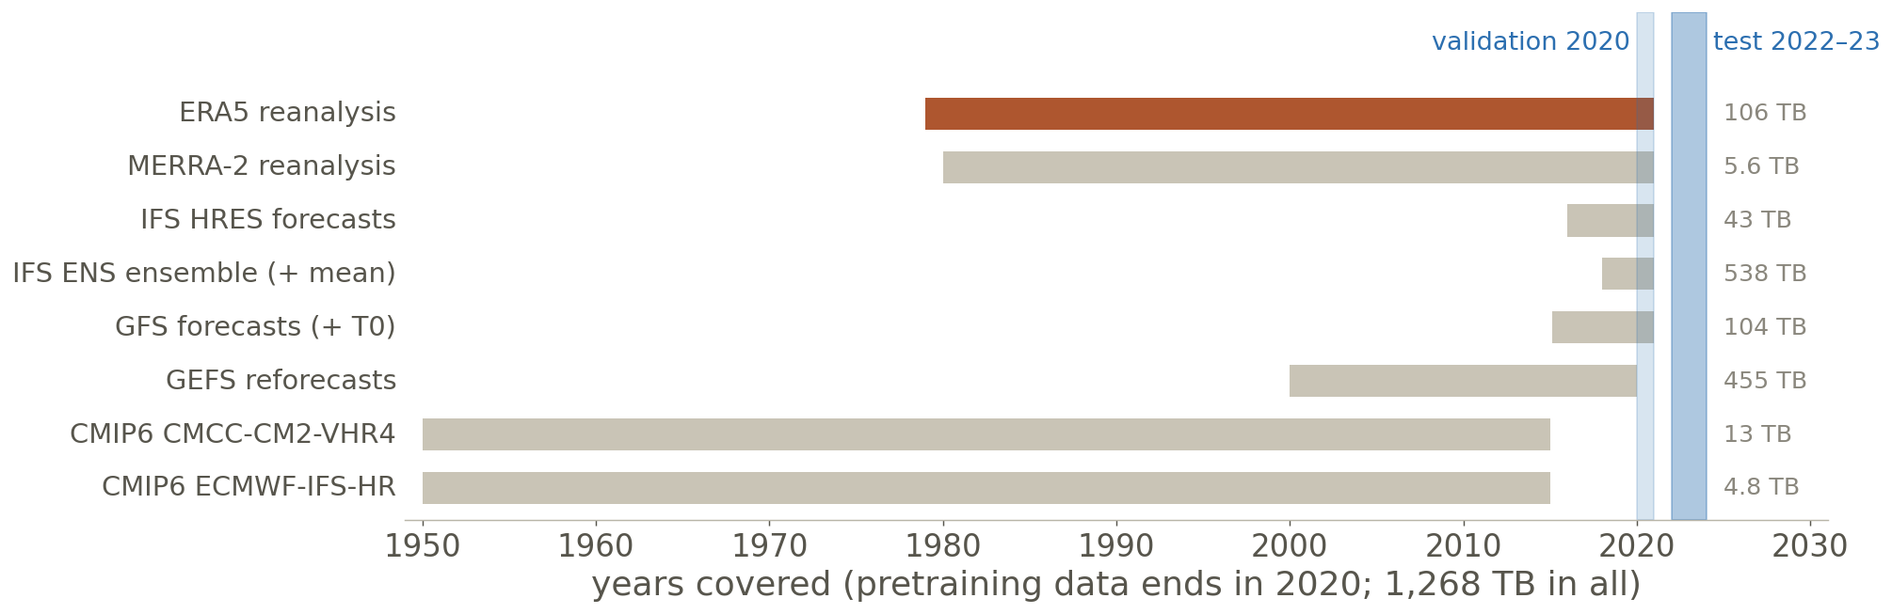
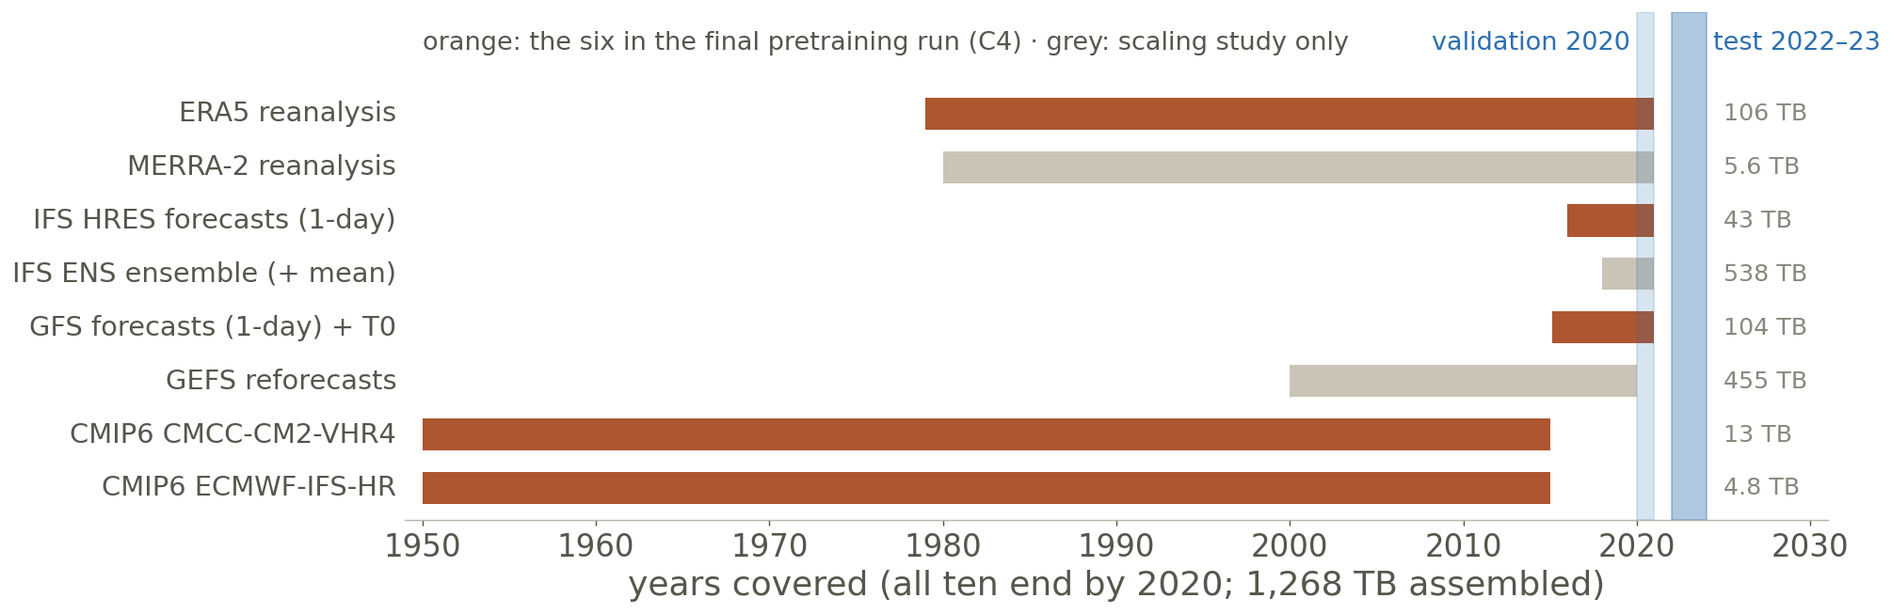
Decks: weather-model claims checked against the Week 11 fact sheet
- Week 1: GenCast 97.2% of 1,320 targets; Aurora "orders of magnitude lower
  computational cost" (the 5,000x is in the first preprint only); ML models
  run alongside, not instead of, physics models; FourCastNet on ERA5's 0.25 deg
  grid in under 2 s; Pangu-Weather beat ECMWF's control forecast, GraphCast
  HRES (90%); timeline dates: ECMWF ensemble July 2025, WeatherNext 2 Nov 2025
  (cyclone tracks a day better than GenCast), NOAA 17 Dec 2025, DWD AICON
  Mar 2026
- Week 3: models are not all scored against ERA5 (the IFS against its own
  analysis)
- Week 5 A8: FuXi keeps a 6-h step (60 steps) with three fine-tuned copies,
  Short on 2-12-step rollouts, the others on their predecessor's output, so
  it acts on the per-step error; FourCastNet's second step alone is self-fed
- Week 6: Aurora's Perceiver gives 3 latent levels plus a surface level;
  48 layers in three stages; 6-h step (12-h model for air quality) with LoRA
  rollout fine-tuning; variable lead times only in Aurora 1.5; cyclone
  tracks from the 0.25 deg model
- Week 9: Aurora frames are 180 x 360 x 4 tokens (3 latent + surface): 319
  distinct and 957 seen per parameter (figure regenerated); ten datasets
  assembled, six in the final run (C4), the all-ten set "often does worse
  than the ERA5 job" (figure marks the six)

diff --git a/slides/week09.html b/slides/week09.html
@@ -149,7 +149,7 @@
   <h2>Earth models are data-poor and repeat their corpus hundreds of times</h2>
   <p class="small" style="margin:-1.6vh 0 1vh;color:var(--ink-2);line-height:1.45">Chinchilla’s 20 counts fresh text tokens. Earth archives hold few unique tokens, so their models loop over them.</p>
   <div class="figure" style="flex:0 0 auto;margin:0 0 .6vh">
-    <img src="img/fig-w9-tokens.png" data-zoom alt="Tokens per parameter on a log axis for four models; hollow dot = unique tokens in the corpus, filled dot = tokens seen in training with repeats. Chinchilla 70 B: 20 and 20, about one epoch of text. Aurora 1.3 B: about 239 unique and 718 seen, about three epochs, derived. Prithvi-EO-2.0 300 M: 11 unique and 4,390 seen over 400 epochs. Our Week 7 mini-MAE 0.9 M: 0.28 unique and 373 seen over 1,367 epochs. A dashed line marks 20 tokens per parameter." title="Click to enlarge" style="display:block;margin:0 auto;height:34vh;width:auto;max-width:100%">
+    <img src="img/fig-w9-tokens.png" data-zoom alt="Tokens per parameter on a log axis for four models; hollow dot = unique tokens in the corpus, filled dot = tokens seen in training with repeats. Chinchilla 70 B: 20 and 20, about one epoch of text. Aurora 1.3 B: about 319 unique and 957 seen, about three epochs, derived. Prithvi-EO-2.0 300 M: 11 unique and 4,390 seen over 400 epochs. Our Week 7 mini-MAE 0.9 M: 0.28 unique and 373 seen over 1,367 epochs. A dashed line marks 20 tokens per parameter." title="Click to enlarge" style="display:block;margin:0 auto;height:34vh;width:auto;max-width:100%">
   </div>
   <div class="cols" style="grid-template-columns:1fr 1fr 1fr;gap:1vw;flex:0 0 auto">
     <div class="card small" style="min-width:0;padding:.9vh 1vw"><p style="margin:0;font-size:clamp(13.5px,2.05vh,18px);line-height:1.35"><b>1 · Fix N, vary tokens</b> — at each FLOP budget keep the run with the lowest loss</p></div>
@@ -158,10 +158,10 @@
   </div>
   <p class="small" style="margin:.6vh 0 0"><b class="accent">Where ≈ 20 comes from:</b> 400+ language models; all three → N, D ∝ √C, so D / N ≈ 20.</p>
   <div class="gloss">
-    <span><b>Aurora, worked</b> — 150 k steps × 32 GPUs × 1 = 4.8 M frames seen ≈ 3 epochs → 1.6 M unique · 1 frame = 180 × 360 patches (4 × 4 at 0.25°) × 3 levels ≈ 194 k tokens · 1.6 M × 194 k ÷ 1.3 B ≈ <b>239</b> · 4.8 M × 194 k ÷ 1.3 B ≈ <b>718</b></span>
+    <span><b>Aurora, worked</b> — 150 k steps × 32 GPUs × 1 = 4.8 M frames seen ≈ 3 epochs → 1.6 M unique · 1 frame = 180 × 360 patches (4 × 4 at 0.25°) × 4 levels (3 latent + surface) ≈ 259 k tokens · 1.6 M × 259 k ÷ 1.3 B ≈ <b>319</b> · 4.8 M × 259 k ÷ 1.3 B ≈ <b>957</b></span>
   </div>
   <div class="foot"><span>Muennighoff et al. 2023 · TESSERA v2 §3.3 · Prithvi-EO-2.0 §III · Aurora Supp. §C–D (counts derived, ≈) · figs/fig_tokens.py</span></div>
-  <aside class="notes">2 min. This is the reading's first question — "what is a token of ERA5?". The answer: a patch, like an image. Read the dots. Chinchilla: 20 fresh text tokens per parameter, seen once. Prithvi-EO-2.0-300M: its 4.2 million four-date chips hold about 11 unique patch tokens per parameter — fewer than Chinchilla's rule — so it trains 400 epochs and sees each token 400 times. Aurora has more unique tokens per parameter (a global field every 6 hours adds up), but neighbouring hours are nearly identical, so "unique" overstates it. Our own mini-MAE had 0.28 tokens per parameter, just over a quarter, and saw each one about 1,300 times (20,505 steps × 256 chips × 64 patches ÷ 899,968 parameters = 373 token visits per parameter; each of the 1,367 epochs drops its last partial batch); it still learned useful features, because each pass hides a different 75% (masking acts like fresh data, partly). Then the three cards — where the 20 itself comes from: Hoffmann et al. trained more than 400 language models from 70 million to 16 billion parameters and asked, three ways, which N and D give the lowest loss for a fixed compute budget. One: for each model size, vary the number of training tokens and, at every FLOP budget, keep whichever run reached the lowest loss. Two: fix nine budgets (6 × 10^18 to 3 × 10^21 FLOPs), train several sizes at each, fit a parabola and read off the bottom — the U-curves of the last slide. Three: fit one loss formula to all runs and minimise it. All three say parameters and tokens should grow at the same rate, about the square root of the compute, so their ratio stays near 20 — Table 3: 1 billion parameters, 20 billion tokens; the paper never writes "20" itself. Then the Aurora line under the figure, as the worked example of both dots: 150,000 steps on 32 GPUs, one frame each, is 4.8 million frames seen, which the paper calls about 3 epochs, so about 1.6 million distinct frames; one frame at 0.25° cut into 4 × 4 patches is 180 × 360 positions on each of 3 latent levels, about 194,000 tokens; distinct tokens ÷ 1.3 billion parameters ≈ 239, tokens seen ≈ 718 — the ratio is the 3 epochs. Token sizes for the others: Prithvi 16 × 16 pixels × 6 bands on one date (784 per four-date chip); ours 8 × 8 pixels × 13 bands. Two lessons for us. One, for text, repeating up to 4 epochs costs almost nothing and returns vanish after about 16 (Muennighoff). Two, the one EO study that fitted Chinchilla-style exponents found data should grow faster than the model — and that pretraining loss barely predicts downstream skill (|r| below 0.2), so judge pilots by a probe on your validation split, not by the loss curve. Reading question for ERA5: 40 years every 6 hours at Aurora's 4 × 4 patches is about 58,000 frames × 65,000 patches ≈ 4 billion tokens per level.</aside>
+  <aside class="notes">2 min. This is the reading's first question — "what is a token of ERA5?". The answer: a patch, like an image. Read the dots. Chinchilla: 20 fresh text tokens per parameter, seen once. Prithvi-EO-2.0-300M: its 4.2 million four-date chips hold about 11 unique patch tokens per parameter — fewer than Chinchilla's rule — so it trains 400 epochs and sees each token 400 times. Aurora has more unique tokens per parameter (a global field every 6 hours adds up), but neighbouring hours are nearly identical, so "unique" overstates it. Our own mini-MAE had 0.28 tokens per parameter, just over a quarter, and saw each one about 1,300 times (20,505 steps × 256 chips × 64 patches ÷ 899,968 parameters = 373 token visits per parameter; each of the 1,367 epochs drops its last partial batch); it still learned useful features, because each pass hides a different 75% (masking acts like fresh data, partly). Then the three cards — where the 20 itself comes from: Hoffmann et al. trained more than 400 language models from 70 million to 16 billion parameters and asked, three ways, which N and D give the lowest loss for a fixed compute budget. One: for each model size, vary the number of training tokens and, at every FLOP budget, keep whichever run reached the lowest loss. Two: fix nine budgets (6 × 10^18 to 3 × 10^21 FLOPs), train several sizes at each, fit a parabola and read off the bottom — the U-curves of the last slide. Three: fit one loss formula to all runs and minimise it. All three say parameters and tokens should grow at the same rate, about the square root of the compute, so their ratio stays near 20 — Table 3: 1 billion parameters, 20 billion tokens; the paper never writes "20" itself. Then the Aurora line under the figure, as the worked example of both dots: 150,000 steps on 32 GPUs, one frame each, is 4.8 million frames seen, which the paper calls about 3 epochs, so about 1.6 million distinct frames; one frame at 0.25° cut into 4 × 4 patches is 180 × 360 positions on each of 4 levels — three latent pressure levels plus the surface level — about 259,000 tokens; distinct tokens ÷ 1.3 billion parameters ≈ 319, tokens seen ≈ 957 — the ratio is the 3 epochs. Token sizes for the others: Prithvi 16 × 16 pixels × 6 bands on one date (784 per four-date chip); ours 8 × 8 pixels × 13 bands. Two lessons for us. One, for text, repeating up to 4 epochs costs almost nothing and returns vanish after about 16 (Muennighoff). Two, the one EO study that fitted Chinchilla-style exponents found data should grow faster than the model — and that pretraining loss barely predicts downstream skill (|r| below 0.2), so judge pilots by a probe on your validation split, not by the loss curve. Reading question for ERA5: 40 years every 6 hours at Aurora's 4 × 4 patches is about 58,000 frames × 65,000 patches ≈ 4 billion tokens per level.</aside>
 </section>
 
 <!-- 7 -->
@@ -209,7 +209,7 @@
   <div class="cols" style="grid-template-columns:1fr 1fr 1fr;gap:1.6vw;flex:0 0 auto;margin-top:.5vh">
     <div class="card small" style="min-width:0"><p style="margin:0"><b class="accent">What you will see</b><br>How Prithvi-EO-2.0 (land) and Aurora (atmosphere) built, filtered and split their pretraining data; the overlap check; when pretraining pays at all. <b>By the end:</b> open BASE_MODEL_AUDIT.md and fill its first lines.</p></div>
     <div class="card small" style="min-width:0"><p style="margin:0"><b class="accent">Why it matters here</b><br>A base model that saw your test region or years during pretraining makes your result look better than it is. You cannot rule that out without reading the corpus section.</p></div>
-    <div class="card small" style="min-width:0"><p style="margin:0"><b class="accent">Where it is used</b><br>Every released model says what it was trained on — in its paper’s data section and its Hugging Face page (the <i>model card</i>). Prithvi-EO-2.0: HLS, 2014–2023, cloudy chips removed. Aurora: ERA5 and nine other datasets, up to 2020. <b>For you:</b> Talk 2 on 16 Nov, card 2 — your base model’s data, and whether it overlaps your test.</p></div>
+    <div class="card small" style="min-width:0"><p style="margin:0"><b class="accent">Where it is used</b><br>Every released model says what it was trained on — in its paper’s data section and its Hugging Face page (the <i>model card</i>). Prithvi-EO-2.0: HLS, 2014–2023, cloudy chips removed. Aurora: ERA5 and five other datasets in its final run (ten assembled), up to 2020. <b>For you:</b> Talk 2 on 16 Nov, card 2 — your base model’s data, and whether it overlaps your test.</p></div>
   </div>
   <aside class="notes">9 minutes. "Archaeology" because the corpus is buried: a paragraph in §2 or an appendix, a config on Hugging Face, sometimes a sampling script. Two examples, one check, one question (does pretraining pay?), then the audit file.</aside>
 </section>
@@ -253,19 +253,19 @@
 
 <section class="slide xl">
   <p class="kicker">Part 2 · Example 2 · Aurora, Supplementary §C</p>
-  <h2>Aurora: ten datasets, all ending in 2020 — so test on 2022 and later</h2>
+  <h2>Aurora: ten datasets assembled, six in the final run, all ending in 2020 — so test on 2022 and later</h2>
   <p class="small" style="margin:-1.6vh 0 1.4vh;color:var(--ink-2);line-height:1.45">For a weather model the clean split is by time. Read where the corpus ends before you choose your test years.</p>
   <div class="figure" style="flex:0 0 auto;margin:0 0 .6vh">
-    <img src="img/fig-w9-aurora.png" data-zoom alt="Horizontal bars of the years covered by Aurora's pretraining datasets: ERA5 reanalysis 1979 to 2020, 106 TB, highlighted; MERRA-2 reanalysis 1980 to 2020; IFS HRES forecasts 2016 to 2020; IFS ENS ensemble 2018 to 2020, 538 TB; GFS forecasts 2015 to 2020; GEFS reforecasts 2000 to 2019, 455 TB; two CMIP6 climate simulations 1950 to 2014. A light band marks the validation year 2020, a darker band the test years 2022 and 2023. 1,268 TB in all." title="Click to enlarge" style="display:block;margin:0 auto;height:35vh;width:auto;max-width:100%">
+    <img src="img/fig-w9-aurora.png" data-zoom alt="Horizontal bars of the years covered by Aurora's pretraining datasets: ERA5 reanalysis 1979 to 2020, 106 TB, highlighted; MERRA-2 reanalysis 1980 to 2020; IFS HRES forecasts 2016 to 2020; IFS ENS ensemble 2018 to 2020, 538 TB; GFS forecasts 2015 to 2020; GEFS reforecasts 2000 to 2019, 455 TB; two CMIP6 climate simulations 1950 to 2014. The six used in the final pretraining run are orange: ERA5, one-day HRES forecasts, one-day GFS forecasts with GFS analyses, and the two climate simulations; the others were used only in the scaling study. A light band marks the validation year 2020, a darker band the test years 2022 and 2023. 1,268 TB assembled." title="Click to enlarge" style="display:block;margin:0 auto;height:35vh;width:auto;max-width:100%">
   </div>
   <ul class="small">
-    <li>Normalised with <b>ERA5 means and stds for every dataset</b>; ERA5 loss weighted × 2. <span class="accent">Note: the 2020 validation year sits inside the pretraining years.</span></li>
+    <li>The final run used six of the ten (orange); all ten together “often does worse than the ERA5 job”. Normalised with <b>ERA5 means and stds</b>; ERA5 loss weighted × 2. <span class="accent">Note: the 2020 validation year sits inside the pretraining years.</span></li>
   </ul>
   <div class="gloss">
     <span><b>reforecast</b> — an old forecast re-run with today’s model · <b>CMIP6</b> — the climate-model comparison project; here, simulated weather, not observations</span>
   </div>
   <div class="foot"><span>Bodnar et al., Nature 2025, Supplementary Table C3 and §C.4 (arXiv 2405.13063v3 §11) · 1.3 B parameters, 150 k steps on 32 A100s ≈ 2.5 weeks · weights MIT · wf_week9-facts.md §8</span></div>
-  <aside class="notes">2 min. The section is in the supplement, Section C — not Appendix B, as our schedule said. Ten datasets, 1.3 petabytes: reanalyses, forecasts, ensembles, even climate simulations. Three things to read off. First, everything ends in 2020; the test years are 2022 and 2023 — a clean split by time, and the one you should copy if your project is about weather or climate: put your test years after the corpus ends. Second, normalisation: Aurora uses ERA5's means and standard deviations for every dataset; when you fine-tune, keep those statistics rather than recomputing your own. Third, a small honesty check: the validation year 2020 is inside the pretraining datasets' range — the kind of detail the audit should record, not hide. They also found that adding every dataset was not always better than ERA5 alone: more data is not automatically better data.</aside>
+  <aside class="notes">2 min. The section is in the supplement, Section C — not Appendix B, as our schedule said. Ten datasets, 1.3 petabytes — reanalyses, forecasts, ensembles, even climate simulations — were assembled for the data-scaling study; the released model's final pretraining run used six of them (configuration C4: ERA5, one-day HRES and GFS forecasts, GFS analyses and the two climate simulations). Three things to read off. First, everything ends in 2020; the test years are 2022 and 2023 — a clean split by time, and the one you should copy if your project is about weather or climate: put your test years after the corpus ends. Second, normalisation: Aurora uses ERA5's means and standard deviations for every dataset; when you fine-tune, keep those statistics rather than recomputing your own. Third, a small honesty check: the validation year 2020 is inside the pretraining datasets' range — the kind of detail the audit should record, not hide. They also found that the all-ten configuration "often does worse than the ERA5 job": more data is not automatically better data.</aside>
 </section>
 
 <!-- 11 -->

diff --git a/slides/week06.html b/slides/week06.html
@@ -607,10 +607,10 @@
     <li>Every machine-learning weather model is an answer to this slide. <span class="accent">The honest version of “global attention” at 0.25° does not exist; what exists is windows, coarser grids and latents.</span></li>
   </ul>
   <div class="gloss">
-    <span><b>0.25°</b> — the grid of ERA5, the European weather reanalysis: ≈ 28 km at the equator. <b>Perceiver</b> — a small set of learned latent tokens that attend to (query) the big input (Aurora: 13 pressure levels → 3 latent levels). <b>mesh</b> — GraphCast’s coarser icosahedral graph (not attention).</span>
+    <span><b>0.25°</b> — the grid of ERA5, the European weather reanalysis: ≈ 28 km at the equator. <b>Perceiver</b> — a small set of learned latent tokens that attend to (query) the big input (Aurora: 13 pressure levels → 3 latent levels, plus a surface level). <b>mesh</b> — GraphCast’s coarser icosahedral graph (not attention).</span>
   </div>
   <div class="foot"><span>Bi et al. 2023 (Pangu-Weather), Nature 619 · Nguyen et al. 2023 (ClimaX), ICML · Bodnar et al. 2025 (Aurora), Nature 641 · numbers: Appendix A6</span></div>
-  <aside class="notes">2 min. Walk the left column slowly — it is the computation they must be able to redo for any grid: points, divide by the patch area, square, times two bytes. Land the 8.5 GB per head per layer against the T4's 16. Then the three doors, one sentence each: Pangu, FuXi and Aurora attend inside 2 × 6 × 12 windows — Part 4; ClimaX works at 5.625 degrees where the whole level is 512 tokens — the grid of Lab 05's ERA5 teaser; Aurora also squeezes 13 levels into 3 latent ones before the backbone sees them. Say the honest sentence: there is no global attention at 0.25 degrees in any operational model; the question is always which escape.</aside>
+  <aside class="notes">2 min. Walk the left column slowly — it is the computation they must be able to redo for any grid: points, divide by the patch area, square, times two bytes. Land the 8.5 GB per head per layer against the T4's 16. Then the three doors, one sentence each: Pangu, FuXi and Aurora attend inside 2 × 6 × 12 windows — Part 4; ClimaX works at 5.625 degrees where the whole level is 512 tokens — the grid of Lab 05's ERA5 teaser; Aurora also squeezes 13 levels into 3 latent ones, plus a surface level, before the backbone sees them. Say the honest sentence: there is no global attention at 0.25 degrees in any operational model; the question is always which escape.</aside>
 </section>
 
 <!-- 21 -->
@@ -1155,7 +1155,7 @@
         <text x="360" y="134">cube embedding 2 × 4 × 4 (two time steps in) → 180 × 360 tokens, C = 1536</text>
         <text x="360" y="150" fill="var(--muted)" font-size="12"><tspan fill="var(--accent)">48 Swin-V2 blocks</tspan>, 2-D windows (levels folded into C) · L1 loss</text>
         <text x="360" y="178" font-weight="700">Aurora (2025) · 1.3 B params · the one you can download</text>
-        <text x="360" y="196">Perceiver in (13 levels → 3 latent) → <tspan fill="var(--accent)">3-D Swin U-Net, 48 layers</tspan></text>
+        <text x="360" y="196">Perceiver in (13 levels → 3 latent + surface) → <tspan fill="var(--accent)">3-D Swin U-Net, 48 layers, 3 stages</tspan></text>
         <text x="360" y="212" fill="var(--muted)" font-size="12">same window, no bias: position, area, time as Fourier codes · patch 4 → 10 at 0.1°</text>
       </g>
     </svg>
@@ -1167,7 +1167,7 @@
     <span><b>3-D window</b> — 2 levels × 6 lat tokens (6 × 4 × 0.25° = 6°) × 12 lon tokens (12°); Pangu and Aurora. <b>Swin-V2</b> — Swin with the norm after the branch and cosine attention, for stability at scale. <b>Perceiver</b> — slide 20, door 3.</span>
   </div>
   <div class="foot"><span>Bi et al. 2023, Nature 619:533, Methods · Chen et al. 2023, npj Clim Atmos Sci 6:190 · Bodnar et al. 2025, Nature 641:1180, App. B · details: Appendix A6</span></div>
-  <aside class="notes">2 min. Point at the block: tokens live in three dimensions, levels × latitude × longitude, and the window is 2 levels by 6 degrees by 12 degrees — 144 tokens. Then one line per model, reading the bold names: Pangu invented the 3-D window and an Earth-specific bias that knows which latitude it is at; FuXi stacked 48 Swin-V2 blocks and cascaded three models by lead time; Aurora kept the same window, squeezed 13 levels into 3 before the backbone, and is the one you can download. Then the geometry: the roll along longitude is not a trick on a globe, it is the truth — the dateline should be invisible; latitude is where the walls are real, and that is why both models give latitude an absolute code. That is the start of discussion question 1, not its end.</aside>
+  <aside class="notes">2 min. Point at the block: tokens live in three dimensions, levels × latitude × longitude, and the window is 2 levels by 6 degrees by 12 degrees — 144 tokens. Then one line per model, reading the bold names: Pangu invented the 3-D window and an Earth-specific bias that knows which latitude it is at; FuXi stacked 48 Swin-V2 blocks and cascaded three models by lead time; Aurora kept the same window, squeezed 13 levels into 3 latent ones plus a surface level before the backbone, stacked 48 layers in three stages, and is the one you can download. Then the geometry: the roll along longitude is not a trick on a globe, it is the truth — the dateline should be invisible; latitude is where the walls are real, and that is why both models give latitude an absolute code. That is the start of discussion question 1, not its end.</aside>
 </section>
 
 <!-- 39 -->
@@ -1642,10 +1642,10 @@ def test_equivalence():                       # the same thing as torch
   <table class="small" style="border-collapse:collapse;width:100%">
     <tr style="color:var(--ink-2)"><th style="text-align:left;padding:.3vh .4vw"></th><th style="text-align:left;padding:.3vh .4vw">Pangu-Weather (Bi et al., Nature 2023)</th><th style="text-align:left;padding:.3vh .4vw">FuXi (Chen et al., npj 2023)</th><th style="text-align:left;padding:.3vh .4vw">Aurora (Bodnar et al., Nature 2025)</th></tr>
     <tr><td style="padding:.3vh .4vw"><b>input</b></td><td style="padding:.3vh .4vw">0.25°, 1440 × 721; 13 levels × 5 upper-air + 4 surface + 3 constant masks</td><td style="padding:.3vh .4vw">0.25°; two time steps × 70 variables (5 × 13 levels + 5 surface)</td><td style="padding:.3vh .4vw">any set of surface + atmospheric variables; 0.25° pretraining (0.1° and 0.4° fine-tuned)</td></tr>
-    <tr><td style="padding:.3vh .4vw"><b>tokens</b></td><td style="padding:.3vh .4vw">patch 2 × 4 × 4 (upper) and 4 × 4 (surface) → 8 × 181 × 360, C = 192</td><td style="padding:.3vh .4vw">cube embedding 2 × 4 × 4 → 180 × 360, C = 1536</td><td style="padding:.3vh .4vw">per-variable patch embeddings (patch 4) summed per level, + level code, Fourier position / area / time; Perceiver: 13 levels → 3 latent</td></tr>
+    <tr><td style="padding:.3vh .4vw"><b>tokens</b></td><td style="padding:.3vh .4vw">patch 2 × 4 × 4 (upper) and 4 × 4 (surface) → 8 × 181 × 360, C = 192</td><td style="padding:.3vh .4vw">cube embedding 2 × 4 × 4 → 180 × 360, C = 1536</td><td style="padding:.3vh .4vw">per-variable patch embeddings (patch 4) summed per level, + level code, Fourier position / area / time; Perceiver: 13 levels → 3 latent + surface</td></tr>
     <tr><td style="padding:.3vh .4vw"><b>backbone</b></td><td style="padding:.3vh .4vw">3-D Swin (3DEST), 2-6-6-2 blocks, U-shaped with one downsample (8 × 91 × 180, 2C); window (2, 6, 12); Earth-specific bias — absolute in (level, lat), relative in lon</td><td style="padding:.3vh .4vw">U-Transformer: 48 Swin-V2 blocks (res-post-norm, cosine attention), 2-D windows (levels in the channels); down to 90 × 180 and back</td><td style="padding:.3vh .4vw">3-D Swin U-Net, 48 layers, stages (6, 10, 8) / (8, 10, 6), 512 → 1024 → 2048; window (2, 6, 12); no attention bias; 1.3 B params</td></tr>
-    <tr><td style="padding:.3vh .4vw"><b>time</b></td><td style="padding:.3vh .4vw">four models (1, 3, 6, 24 h), hierarchical temporal aggregation</td><td style="padding:.3vh .4vw">one 6-h step; three models in cascade for 0–5, 5–10, 10–15 days</td><td style="padding:.3vh .4vw">one model, lead-time conditioned; rollout fine-tuning</td></tr>
-    <tr><td style="padding:.3vh .4vw"><b>training</b></td><td style="padding:.3vh .4vw">L1 loss; 192 V100 × 16 days per model; ≈ 64 M params each</td><td style="padding:.3vh .4vw">lat-weighted L1; ≈ 30 h on 8 A100 pretraining, ≈ 2 days per cascade model; params not stated</td><td style="padding:.3vh .4vw">&gt; 1 M hours of data; 32 A100 × 2.5 weeks, bf16; fine-tuned to HRES 0.1°, CAMS pollution, waves, cyclone tracks</td></tr>
+    <tr><td style="padding:.3vh .4vw"><b>time</b></td><td style="padding:.3vh .4vw">four models (1, 3, 6, 24 h), hierarchical temporal aggregation</td><td style="padding:.3vh .4vw">one 6-h step; three models in cascade for 0–5, 5–10, 10–15 days</td><td style="padding:.3vh .4vw">6-h step (12-h model for air quality); rollout fine-tuning with LoRA (low-rank adapters); variable lead times only in Aurora 1.5</td></tr>
+    <tr><td style="padding:.3vh .4vw"><b>training</b></td><td style="padding:.3vh .4vw">L1 loss; 192 V100 × 16 days per model; ≈ 64 M params each</td><td style="padding:.3vh .4vw">lat-weighted L1; ≈ 30 h on 8 A100 pretraining, ≈ 2 days per cascade model; params not stated</td><td style="padding:.3vh .4vw">&gt; 1 M hours of data; 32 A100 × 2.5 weeks, bf16; fine-tuned to HRES 0.25°/0.1°, CAMS pollution, waves; cyclone tracks from the 0.25° model</td></tr>
   </table>
   <div class="foot"><span>Nature 619:533 · npj Clim Atmos Sci 6:190 · Nature 641:1180 · Pangu and Aurora share the 2 × 6 × 12 window (2 levels × 6° × 12°); FuXi’s are 2-D</span></div>
   <aside class="notes">Not taught in class. Weather-track students: the row to memorize is "tokens" — it is slide 20 done three ways — and the row to argue about in the journal club is "backbone", where the Earth-specific bias and Aurora's encoder-side position codes are the two answers to question 1.</aside>

diff --git a/slides/week01.html b/slides/week01.html
@@ -43,8 +43,8 @@
   <p class="kicker">Part 1 · Welcome · 0:00–0:08</p>
   <h2>The biggest labs on Earth are racing to build exactly this</h2>
   <ul class="small">
-    <li><b>Google DeepMind</b> — GraphCast (<i>Science</i> 2023) beat the world's best physics forecast on <b>90% of 1,380 targets</b>, producing a 10-day global forecast in under a minute on a single chip; GenCast (<i>Nature</i> 2024) then beat the European ensemble on 97% of targets.</li>
-    <li><b>Microsoft Research</b> — Aurora (<i>Nature</i> 2025): <b>one</b> pretrained model of the atmosphere, cheaply fine-tuned, out-forecasts the specialist systems for weather, air pollution, and ocean waves — thousands of times faster than physics pipelines.</li>
+    <li><b>Google DeepMind</b> — GraphCast (<i>Science</i> 2023) beat the world's best physics forecast on <b>90% of 1,380 targets</b>, producing a 10-day global forecast in under a minute on a single chip; GenCast (<i>Nature</i> 2024) then beat the European ensemble on 97.2% of 1,320 targets.</li>
+    <li><b>Microsoft Research</b> — Aurora (<i>Nature</i> 2025): <b>one</b> pretrained model of the atmosphere, cheaply fine-tuned, out-forecasts the specialist systems for weather, air pollution, and ocean waves — at orders of magnitude lower computational cost.</li>
     <li><b>IBM + NASA</b> — Prithvi: NASA's first open-source foundation model, trained on NASA's own satellite archive and given away on Hugging Face — <b>anyone in this room can fine-tune it</b> for floods, wildfires, or crops.</li>
     <li class="muted">Also racing: Huawei (Pangu-Weather, <i>Nature</i> 2023) · NVIDIA (Earth-2, a "digital twin" of the planet) · and Europe's own weather agency, whose machine-learning forecast has been fully operational since February 2025.</li>
   </ul>
@@ -74,7 +74,7 @@
 <!-- 2c ▸ Why it matters -->
 <section class="slide">
   <p class="kicker">Part 1 · Welcome · 0:00–0:08</p>
-  <h2>They are replacing weather models — and predicting disasters</h2>
+  <h2>They now run alongside the weather models — and predict disasters</h2>
   <div class="cols" style="grid-template-columns:1.15fr 1fr">
     <div class="figure"><img src="img/fig-gencast.png" alt="GenCast ensemble cyclone track forecasts for Typhoon Hagibis at decreasing lead times" style="max-width:100%;max-height:100%;background:#fff;padding:1vh;border-radius:10px;object-fit:contain"></div>
     <div>
@@ -820,9 +820,9 @@
   <h2>In weather, the flip already happened</h2>
   <div class="figure" style="flex:0 0 auto;max-height:26vh"><img src="img/fig-graphcast.png" alt="GraphCast: input weather state, one-step prediction, autoregressive rollout of a global forecast" style="max-width:100%;max-height:100%;background:#fff;padding:1vh;border-radius:10px;object-fit:contain"></div>
   <ul class="small" style="margin-top:1.4vh">
-    <li><b>2022</b> — FourCastNet (NVIDIA): first neural network at physics-model resolution; a week's forecast in <b>2 seconds</b>. · <b>2023</b> — Pangu-Weather (<i>Nature</i>) and GraphCast (<i>Science</i>, above): <b>more accurate</b> than the best physics forecasts, at 10,000× the speed.</li>
-    <li><b>2024</b> — GenCast (<i>Nature</i>): beats the European <i>ensemble</i> on 97% of targets — probabilistic forecasting conquered. · <b>Feb 2025</b> — Europe's weather centre puts <b>its own machine-learning forecast into daily operations</b>. · <b>2025</b> — Aurora (<i>Nature</i>): one pretrained atmosphere model, fine-tuned for weather, waves, and air quality.</li>
-    <li><b>2026</b> — the United States deploys a machine-learning global forecast; Google open-sources WeatherNext 2, whose cyclone-track forecasts see <b>about one day further ahead</b> than leading operational systems.</li>
+    <li><b>2022</b> — FourCastNet (NVIDIA): first neural network on ERA5's 0.25° grid; a week's forecast in <b>under 2 seconds</b>. · <b>2023</b> — Pangu-Weather (<i>Nature</i>) and GraphCast (<i>Science</i>, above): <b>more accurate</b> than ECMWF's control forecast (Pangu) and its HRES (GraphCast, 90% of targets), in under a minute.</li>
+    <li><b>2024</b> — GenCast (<i>Nature</i>): beats the European <i>ensemble</i> on 97.2% of 1,320 targets — probabilistic forecasting conquered. · <b>Feb 2025</b> — Europe's weather centre puts <b>its own machine-learning forecast into daily operations</b> (its ensemble follows in July). · <b>2025</b> — Aurora (<i>Nature</i>): one pretrained atmosphere model, fine-tuned for weather, waves, and air quality.</li>
+    <li><b>Late 2025</b> — Google's WeatherNext 2 (November) tracks cyclones <b>about a day better</b> than GenCast; the United States puts GraphCast-based forecasts into operations (17 December). · <b>Mar 2026</b> — Germany's weather service follows with AICON.</li>
   </ul>
   <div class="foot"><span>Figure: Google DeepMind, GraphCast — one learned step, rolled out into a 10-day global forecast · “can machine learning forecast?” is settled; the frontier is probabilistic skill and honest evaluation</span></div>
   <aside class="notes">Read the timeline as one story: faster (2022) → more accurate (2023) → better ensembles (2024) → adopted by the agencies themselves (2025–26). The debate closed while this room's seniors were sophomores. Transition: "You might think this is only for trillion-dollar labs. The opposite is true."</aside>

diff --git a/slides/week05.html b/slides/week05.html
@@ -1641,12 +1641,12 @@ loss = mse(model(y1, x[t + 2]), y[t + 2])</code></pre>
   <ul class="small">
     <li><b>GraphCast</b> (Lam et al. 2023) — 6-hour step, ERA5 1979–2017. Phase 1: 1,000 updates at 1 step, learning rate 0 → 10⁻³. Phase 2: 299,000 updates at 1 step, half-cosine decay to 0. Phase 3: 11,000 updates, rollout 2 → 12 steps (+1 every 1,000), learning rate fixed at 3 × 10⁻⁷. Loss: MSE weighted by latitude-cell area and by pressure level (weights ∝ pressure); at the surface, 2-m temperature 1.0 and the others 0.1.</li>
     <li><b>Pangu-Weather</b> (Bi et al. 2023) — four models with 1-, 3-, 6- and 24-hour steps; a greedy rule “always calls for the deep network with the largest affordable lead time” — 56 h = 24 × 2 + 6 + 1 × 2 — “to reduce the cumulative forecast errors”. Mean-absolute-error loss; train 1979–2017, validate 2019, test 2018.</li>
-    <li><b>FuXi</b> (Chen et al. 2023) — a cascade of three fine-tuned copies: FuXi-Short for 0–5 days, FuXi-Medium for 5–10, FuXi-Long for 10–15, handing over at steps 20 and 40.</li>
-    <li><b>FourCastNet</b> (Pathak et al. 2022) — 80 epochs of one-step pretraining, then 50 epochs fine-tuning on a second, self-fed step with both losses summed.</li>
+    <li><b>FuXi</b> (Chen et al. 2023) — a 6-hour step throughout (60 steps to 15 days); three fine-tuned copies — Short for 0–5 days, Medium for 5–10, Long for 10–15, handing over at steps 20 and 40. Short is tuned on rollouts growing from 2 to 12 steps, Medium and Long on their predecessor’s output.</li>
+    <li><b>FourCastNet</b> (Pathak et al. 2022) — 80 epochs of one-step training, then 50 epochs on two-step rollouts in which only the second step is fed the model’s own output; both losses summed.</li>
     <li class="muted">An absolute-error loss is minimized by the conditional median rather than the mean — still one number, still a hedge between futures.</li>
   </ul>
   <div class="foot"><span>Lam et al. 2023, Science 382 (arXiv:2212.12794, Supp. 4.2 and 4.5) · Bi et al. 2023, Nature 619 · Chen et al. 2023, npj Clim. Atmos. Sci. · Pathak et al. 2022, arXiv:2202.11214</span></div>
-  <aside class="notes">Not taught in class. Read it as four placements on the recursion of slide 16: GraphCast and FourCastNet shape a by training on the rollout; Pangu and FuXi reduce k or give each lead-time range its own model. None of them removes the blur — that needs Part 4's move to distributions.</aside>
+  <aside class="notes">Not taught in class. Read it as four placements on the recursion of slide 16: GraphCast, FourCastNet and FuXi shape a by training on rollouts — FuXi keeps its 6-hour step, so all 60 calls remain, and gives each lead-time range its own fine-tuned copy; only Pangu reduces k. None of them removes the blur — that needs Part 4's move to distributions.</aside>
 </section>
 
 <!-- 49 -->

diff --git a/slides/week03.html b/slides/week03.html
@@ -814,7 +814,7 @@ items = cat.search(
     </a>
   </div>
   <div class="gloss">
-    <span><b>AIFS</b> (Artificial Intelligence Forecasting System) <b>· GraphCast · GenCast</b> &mdash; the current machine-learning forecast models; all three are scored against ERA5, so every number they report carries today&rsquo;s weight inside it.</span>
+    <span><b>AIFS</b> (Artificial Intelligence Forecasting System) <b>· GraphCast · GenCast</b> &mdash; the current machine-learning forecast models; all three are scored with latitude-weighted errors (against ERA5 or an operational analysis), so every number they report carries today&rsquo;s weight inside it.</span>
     <span><b>layer swipe</b> &mdash; the before/after slider in the second video; the honest way to show change, because both scenes stay visible and the viewer moves the boundary.</span>
     <span><b>in the thumbnails</b> &mdash; left, the evaluation side of this course (returns in W9&ndash;W11); right, the acquisition side, on the flood from slide 1.</span>
   </div>
@@ -1092,7 +1092,7 @@ items = cat.search(
     <li>FourCastNet, Pangu-Weather, GraphCast, GenCast: all trained on <span class="accent">ERA5 at 0.25°</span> — one corpus, one field's worth of models.</li>
     <li>WeatherBench 2 fixes the test — every 00 and 12 UTC start of 2020, scored against ERA5 — and leaves the training years to the modeller (most stop at 2018): temporal holdout, exactly the W2 leakage lesson.</li>
     <li>State vector: surface (T2m, U10/V10, MSLP) + upper-air variables on 13 pressure levels (50 → 1000 hPa); <b>Z500</b> is the headline — geopotential height at 500 hPa tracks the midlatitude synoptic pattern.</li>
-    <li class="muted">"Beats IFS" always means: beats IFS at reproducing ERA5's version of the atmosphere.</li>
+    <li class="muted">"Beats IFS" means: an ERA5-trained model, scored against ERA5, beat an IFS scored against ERA5 or its own analysis — ERA5's atmosphere is the target.</li>
   </ul>
   <div class="foot"><span>Bi et al. 2023 (Pangu) · Lam et al. 2023 (GraphCast) · Rasp et al. 2024 (WB2)</span></div>
   <aside class="notes">3 min. Explain why Z500 of all things: it's smooth, dynamically central (ridges/troughs = weather regimes), and the historical NWP skill metric — continuity back to Bauer et al.'s "quiet revolution." The last bullet plants DQ2 again: the ceiling of this whole enterprise is ERA5's own fidelity. Lab pipe (a) computes a Z500 climatology — today they touch the exact variable the field scores itself on.</aside>
